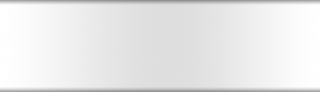
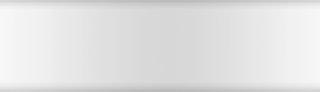
修改了不少东西

Changed region(s): [[0.0, 0.9783, 1.0, 1.0], [0.0, 0.0, 1.0, 0.0217]]

diff --git a/Tomato/EGORefreshTableHeaderView.m b/Tomato/EGORefreshTableHeaderView.m
@@ -42,13 +42,13 @@
 
 - (id)initWithFrame:(CGRect)frame {
     if (self = [super initWithFrame:frame]) {
-		
-		self.autoresizingMask = UIViewAutoresizingFlexibleWidth;
-		self.backgroundColor = [UIColor colorWithRed:226.0/255.0 green:231.0/255.0 blue:237.0/255.0 alpha:1.0];
+		//self.backgroundColor = [UIColor colorWithRed:226.0/255.0 green:231.0/255.0 blue:237.0/255.0 alpha:1.0];
+        UIImage *image = [UIImage imageNamed:@"headerView.png"];
+        self.layer.contents = (id) image.CGImage;
 
-		UILabel *label = [[UILabel alloc] initWithFrame:CGRectMake(5.0f, frame.size.height - 30.0f, self.frame.size.width, 20.0f)];
+		UILabel *label = [[UILabel alloc] initWithFrame:CGRectMake(0.0f, frame.size.height - 50.0f, self.frame.size.width, 20.0f)];
 		label.autoresizingMask = UIViewAutoresizingFlexibleWidth;
-		label.font = [UIFont systemFontOfSize:12.0f];
+		label.font = [UIFont systemFontOfSize:10.0f];
 		label.textColor = TEXT_COLOR;
 		label.shadowColor = [UIColor colorWithWhite:0.9f alpha:1.0f];
 		label.shadowOffset = CGSizeMake(0.0f, 1.0f);
@@ -57,9 +57,9 @@
 		[self addSubview:label];
 		_lastUpdatedLabel=label;
 		
-		label = [[UILabel alloc] initWithFrame:CGRectMake(0.0f, frame.size.height - 48.0f, self.frame.size.width, 20.0f)];
+		label = [[UILabel alloc] initWithFrame:CGRectMake(0.0f, frame.size.height - 65.0f, self.frame.size.width, 20.0f)];
 		label.autoresizingMask = UIViewAutoresizingFlexibleWidth;
-		label.font = [UIFont boldSystemFontOfSize:13.0f];
+		label.font = [UIFont boldSystemFontOfSize:11.0f];
 		label.textColor = TEXT_COLOR;
 		label.shadowColor = [UIColor colorWithWhite:0.9f alpha:1.0f];
 		label.shadowOffset = CGSizeMake(0.0f, 1.0f);
@@ -69,7 +69,7 @@
 		_statusLabel=label;
 		
 		CALayer *layer = [CALayer layer];
-		layer.frame = CGRectMake(25.0f, frame.size.height - 65.0f, 30.0f, 55.0f);
+		layer.frame = CGRectMake(20.0f, frame.size.height - 72.0f, 30.0f, 55.0f);
 		layer.contentsGravity = kCAGravityResizeAspect;
 		layer.contents = (id)[UIImage imageNamed:@"blueArrow.png"].CGImage;
 		

diff --git a/Tomato/TomatoTableViewController.m b/Tomato/TomatoTableViewController.m
@@ -146,9 +146,13 @@
     Food *food = [self.fetchedResultsController objectAtIndexPath:indexPath];
     
     cell.foodNameLabel.text = food.foodName;
-    cell.foodGradeLabel.text = [NSString stringWithFormat:@"%@",food.foodScore];
+    NSLog(@"%.1f",[food.foodScore floatValue]);
     
-    //cell.foodImageView.image = [UIImage imageNamed:@"foodImageNoneBackground.png"];
+    cell.foodGradeLabelA.text = [NSString stringWithFormat:@"%d",[food.foodScore intValue]];
+    int pointNumber = ([food.foodScore floatValue] - [food.foodScore intValue])*10;
+    cell.foodGradeLabelB.text = [@"." stringByAppendingString:[NSString stringWithFormat:@"%d",pointNumber]];
+    
+    cell.foodImageView.image = [UIImage imageNamed:@"foodImageNoneBackground.png"];
     
     dispatch_queue_t image_queue;
     image_queue = dispatch_queue_create("image_queue", nil);
@@ -156,8 +160,21 @@
         cell.foodImageView.image = [UIImage imageWithContentsOfFile:[self imageFilePath:food.foodImagePath]];
         [cell reloadInputViews];
     });
-    //
     
+    UIImage *selectedImage = [UIImage imageNamed:@"cellClickedBackground.png"];
+    UIImageView *selectedView = [[UIImageView alloc] initWithImage:selectedImage];
+    [cell setSelectedBackgroundView:selectedView];
+    
+    UIImage *unselectedImage = [UIImage imageNamed:@"cellUnclickedBackgroud.png"];
+    UIImageView *unselectedView = [[UIImageView alloc] initWithImage:unselectedImage];
+    [cell setBackgroundView:unselectedView];
+    
+    [cell.foodNameLabel setHighlightedTextColor:[UIColor blackColor]];
+    cell.foodNameLabel.font = [UIFont systemFontOfSize:16.0f];
+    [cell.foodGradeLabelA setHighlightedTextColor:[UIColor orangeColor]];
+    cell.foodGradeLabelA.font = [UIFont boldSystemFontOfSize:24.0f];
+    [cell.foodGradeLabelB setHighlightedTextColor:[UIColor orangeColor]];
+    cell.foodGradeLabelB.font = [UIFont systemFontOfSize:16.0f];
     return cell;
 }
 

diff --git a/Tomato/FoodTomatoTableViewCell.h b/Tomato/FoodTomatoTableViewCell.h
@@ -12,6 +12,7 @@
 @property (weak, nonatomic) IBOutlet UIImageView *foodImageView;
 @property (weak, nonatomic) IBOutlet UILabel *foodNameLabel;
 @property (weak, nonatomic) IBOutlet UILabel *foodTagLabel;
-@property (weak, nonatomic) IBOutlet UILabel *foodGradeLabel;
+@property (weak, nonatomic) IBOutlet UILabel *foodGradeLabelA;
+@property (weak, nonatomic) IBOutlet UILabel *foodGradeLabelB;
 
 @end
